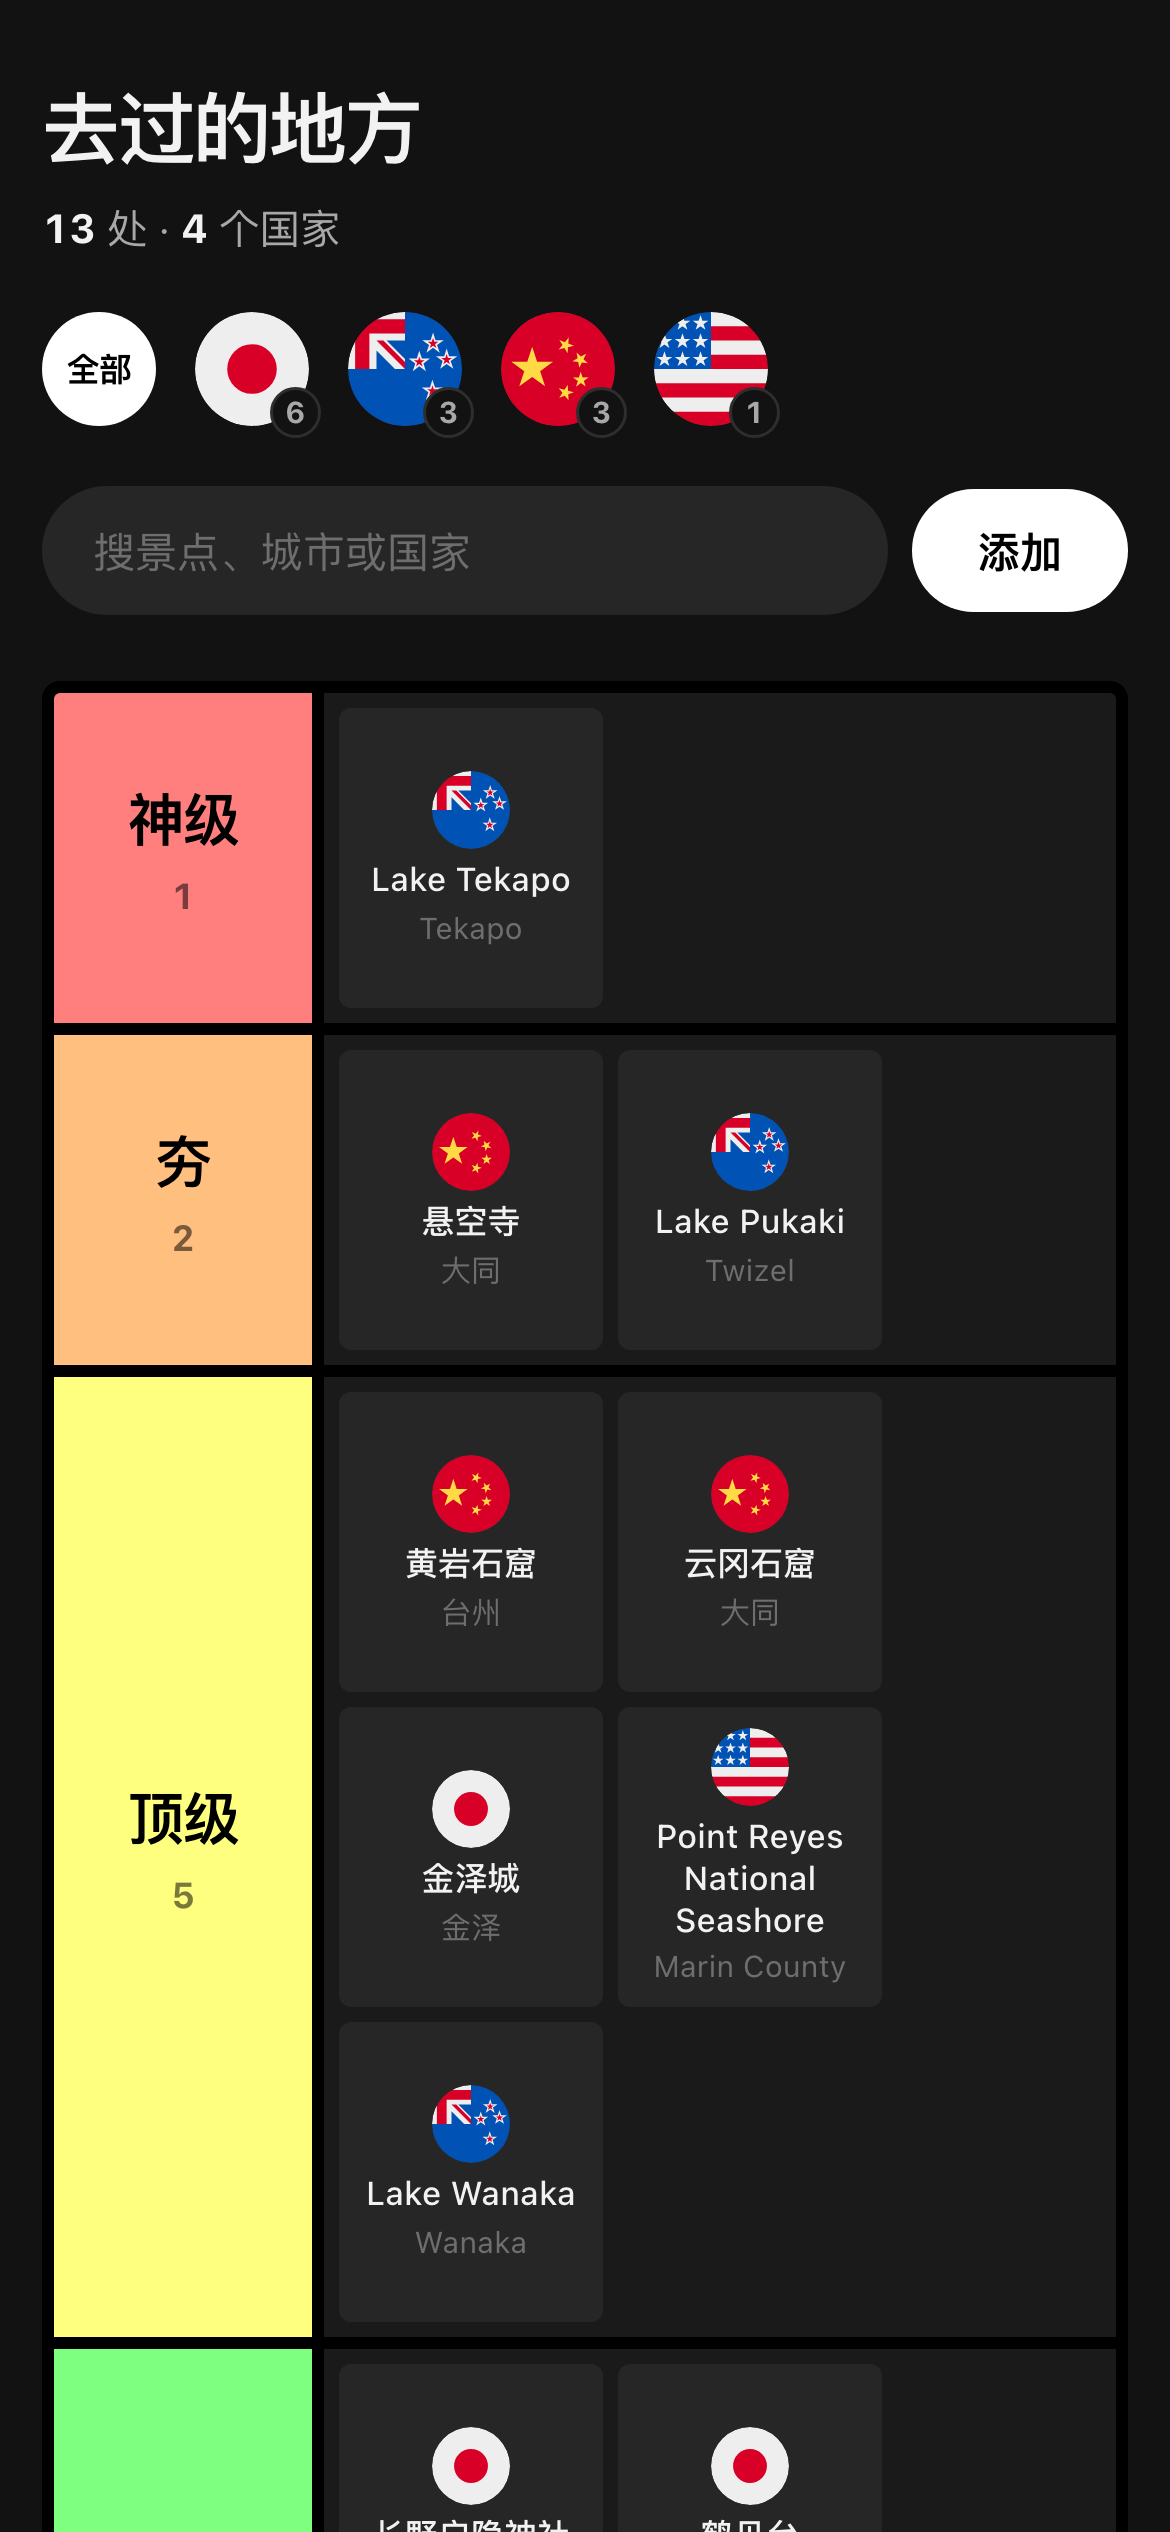
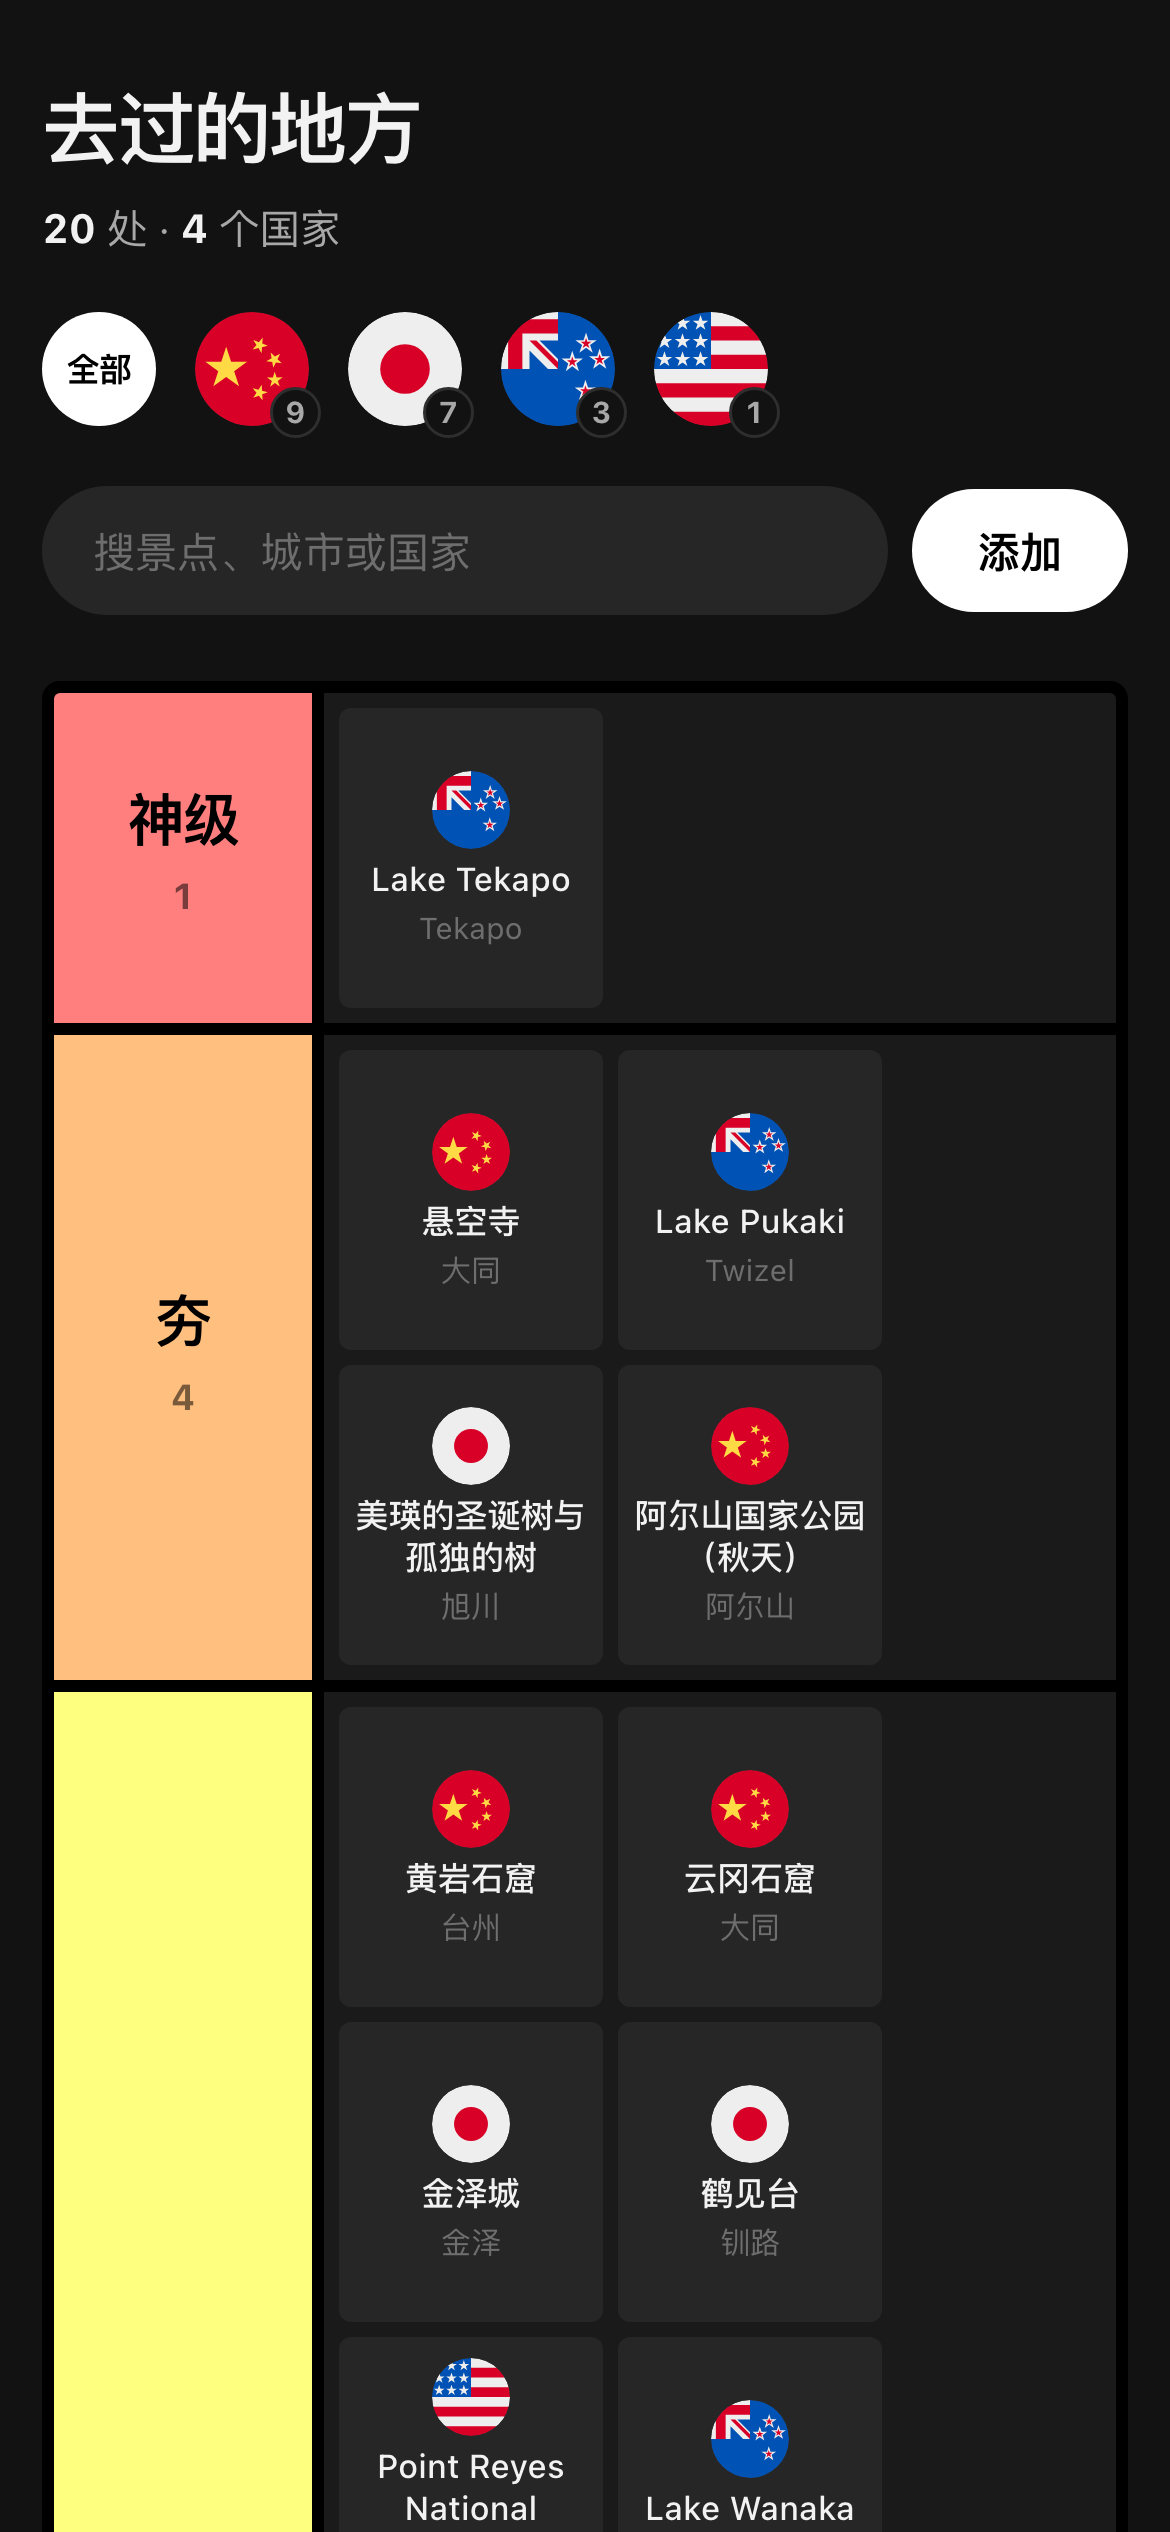
鹤见台改判顶级，新增 7 处
改判：
  鹤见台  人上人 → 顶级

新增：
  夯    美瑛的圣诞树与孤独的树  旭川      日本
  夯    阿尔山国家公园（秋天）  阿尔山    中国
  顶级  虎跳峡                  丽江      中国
  顶级  玉龙雪山                丽江      中国
  顶级  蓝月谷                  丽江      中国
  顶级  洱海                    大理      中国
  顶级  莫尔道嘎公园            额尔古纳  中国

共 20 处 / 4 个国家。中国 9、日本 7、新西兰 3、美国 1。

三处城市是判断，待确认：
- 美瑛町是町不是市，按既定的市级口径填了最近的旭川
- 虎跳峡横跨丽江玉龙县与香格里拉市，按同行的玉龙雪山、蓝月谷填丽江
- 阿尔山、额尔古纳都是县级市，比台州、大同低一级

20 条全部无截断、无溢出，视口内 24 面国旗全部加载成功。测试 60 项全过。

diff --git a/spots.js b/spots.js
@@ -10,10 +10,17 @@ window.SPOTS = [
   { "name": "金泽城"                       , "city": "金泽"        , "country": "日本"  , "tier": "top" },
   { "name": "金泽兼六园"                   , "city": "金泽"        , "country": "日本"  , "tier": "npc" },
   { "name": "河口湖"                       , "city": "富士吉田"    , "country": "日本"  , "tier": "npc" },
-  { "name": "鹤见台"                       , "city": "钏路"        , "country": "日本"  , "tier": "ren" },
+  { "name": "鹤见台"                       , "city": "钏路"        , "country": "日本"  , "tier": "top" },
   { "name": "阿寒湖"                       , "city": "钏路"        , "country": "日本"  , "tier": "ren" },
   { "name": "Point Reyes National Seashore", "city": "Marin County", "country": "美国"  , "tier": "top" },
   { "name": "Lake Wanaka"                  , "city": "Wanaka"      , "country": "新西兰", "tier": "top" },
   { "name": "Lake Pukaki"                  , "city": "Twizel"      , "country": "新西兰", "tier": "hang" },
-  { "name": "Lake Tekapo"                  , "city": "Tekapo"      , "country": "新西兰", "tier": "shen" }
+  { "name": "Lake Tekapo"                  , "city": "Tekapo"      , "country": "新西兰", "tier": "shen" },
+  { "name": "美瑛的圣诞树与孤独的树"       , "city": "旭川"        , "country": "日本"  , "tier": "hang" },
+  { "name": "虎跳峡"                       , "city": "丽江"        , "country": "中国"  , "tier": "top" },
+  { "name": "玉龙雪山"                     , "city": "丽江"        , "country": "中国"  , "tier": "top" },
+  { "name": "蓝月谷"                       , "city": "丽江"        , "country": "中国"  , "tier": "top" },
+  { "name": "洱海"                         , "city": "大理"        , "country": "中国"  , "tier": "top" },
+  { "name": "阿尔山国家公园（秋天）"       , "city": "阿尔山"      , "country": "中国"  , "tier": "hang" },
+  { "name": "莫尔道嘎公园"                 , "city": "额尔古纳"    , "country": "中国"  , "tier": "top" }
 ];
